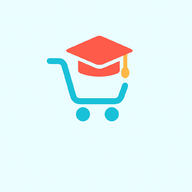
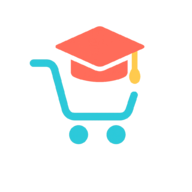
the warm yellow accent color is not showing when hoer over shop by categ

Changed region(s): [[0.1562, 0.125, 0.75, 0.75]]

diff --git a/src/app/page.tsx b/src/app/page.tsx
@@ -28,7 +28,7 @@ const products = [
   {
     id: 1,
     name: 'Advanced Engineering Mathematics',
-    price: '35.00',
+    price: '2000',
     university: 'Stanford University',
     image: 'https://picsum.photos/400/300?random=1',
     hint: 'textbook math',
@@ -36,7 +36,7 @@ const products = [
   {
     id: 2,
     name: 'Comfy Bedside Lamp',
-    price: '15.50',
+    price: '9000',
     university: 'Harvard University',
     image: 'https://picsum.photos/400/300?random=2',
     hint: 'lamp decor',
@@ -44,7 +44,7 @@ const products = [
   {
     id: 3,
     name: 'Noise-Cancelling Headphones',
-    price: '99.99',
+    price: '15500',
     university: 'MIT',
     image: 'https://picsum.photos/400/300?random=3',
     hint: 'headphones electronics',
@@ -52,7 +52,7 @@ const products = [
   {
     id: 4,
     name: 'University Hoodie',
-    price: '45.00',
+    price: '30000',
     university: 'Stanford University',
     image: 'https://picsum.photos/400/300?random=4',
     hint: 'hoodie clothing',
@@ -60,7 +60,7 @@ const products = [
   {
     id: 5,
     name: 'Introduction to Psychology',
-    price: '25.00',
+    price: '10000',
     university: 'Yale University',
     image: 'https://picsum.photos/400/300?random=5',
     hint: 'textbook psychology',
@@ -68,7 +68,7 @@ const products = [
   {
     id: 6,
     name: 'Mini Fridge for Dorm Room',
-    price: '75.00',
+    price: '15000',
     university: 'Harvard University',
     image: 'https://picsum.photos/400/300?random=6',
     hint: 'fridge appliance',
@@ -109,11 +109,11 @@ export default function Home() {
           {categories.map((category) => (
             <Card
               key={category.name}
-              className="group hover:shadow-lg transition-all duration-300 cursor-pointer text-center bg-card/50 hover:bg-card"
+              className="group hover:shadow-lg transition-all duration-300 cursor-pointer text-center bg-card/50 hover:bg-accent/10"
             >
               <CardContent className="flex flex-col items-center justify-center p-6">
-                <div className="bg-primary/10 p-4 rounded-full mb-4 group-hover:bg-primary/20 transition-colors">
-                    <category.icon className="w-10 h-10 text-primary transition-transform duration-300 group-hover:scale-110" />
+                <div className="bg-primary/10 p-4 rounded-full mb-4 group-hover:bg-accent/20 transition-colors">
+                    <category.icon className="w-10 h-10 text-primary transition-transform duration-300 group-hover:scale-110 group-hover:text-accent-foreground" />
                 </div>
                 <h3 className="font-semibold text-lg">{category.name}</h3>
               </CardContent>
@@ -157,9 +157,9 @@ export default function Home() {
                 <div className="flex-grow"></div>
                 <div className="flex justify-between items-center mt-auto">
                   <p className="text-2xl font-bold text-primary">
-                    ${product.price}
+                  ₦{product.price}
                   </p>
-                  <Button size="sm" variant="secondary">
+                  <Button size="sm" variant="outline">
                     <PlusCircle className="mr-2 h-4 w-4" />
                     Add to Cart
                   </Button>

diff --git a/src/components/logo.tsx b/src/components/logo.tsx
@@ -1,6 +1,7 @@
 import Link from 'next/link';
 import { cn } from '@/lib/utils';
 import Image from 'next/image';
+import LogoImage from '@/app/logo.svg'
 
 type LogoProps = {
   className?: string;
@@ -10,7 +11,7 @@ type LogoProps = {
 export function Logo({ className, isTextVisible = true }: LogoProps) {
   return (
     <Link href="/" className={cn('flex items-center gap-2', className)}>
-      <Image src="/images/logo.png" alt="Univend Logo" width={40} height={40} />
+      <Image src={LogoImage} alt="Univend Logo" width={40} height={40} />
       {isTextVisible && (
         <span className="text-2xl font-bold font-headline text-foreground">
           Univend

diff --git a/src/app/layout.tsx b/src/app/layout.tsx
@@ -25,7 +25,7 @@ export default function RootLayout({
           href="https://fonts.googleapis.com/css2?family=PT+Sans:wght@400;700&display=swap"
           rel="stylesheet"
         />
-        <link rel="apple-touch-icon" sizes="57x57" href="/apple-icon-57x57.png" />
+        <link rel="apple-touch-icon" sizes="57x57" href="apple-ic/on-57x57.png" />
         <link rel="apple-touch-icon" sizes="60x60" href="/apple-icon-60x60.png" />
         <link rel="apple-touch-icon" sizes="72x72" href="/apple-icon-72x72.png" />
         <link rel="apple-touch-icon" sizes="76x76" href="/apple-icon-76x76.png" />
